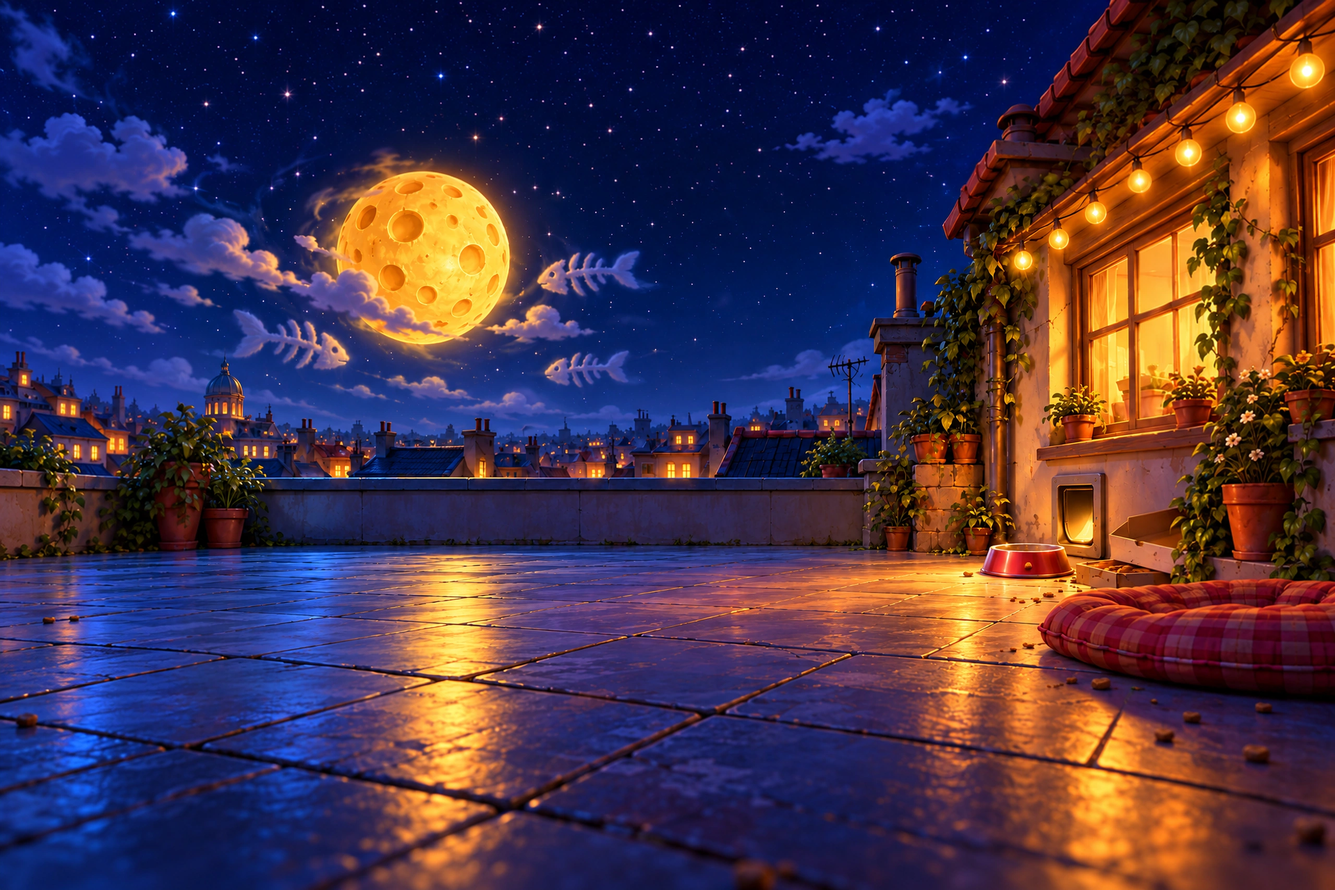
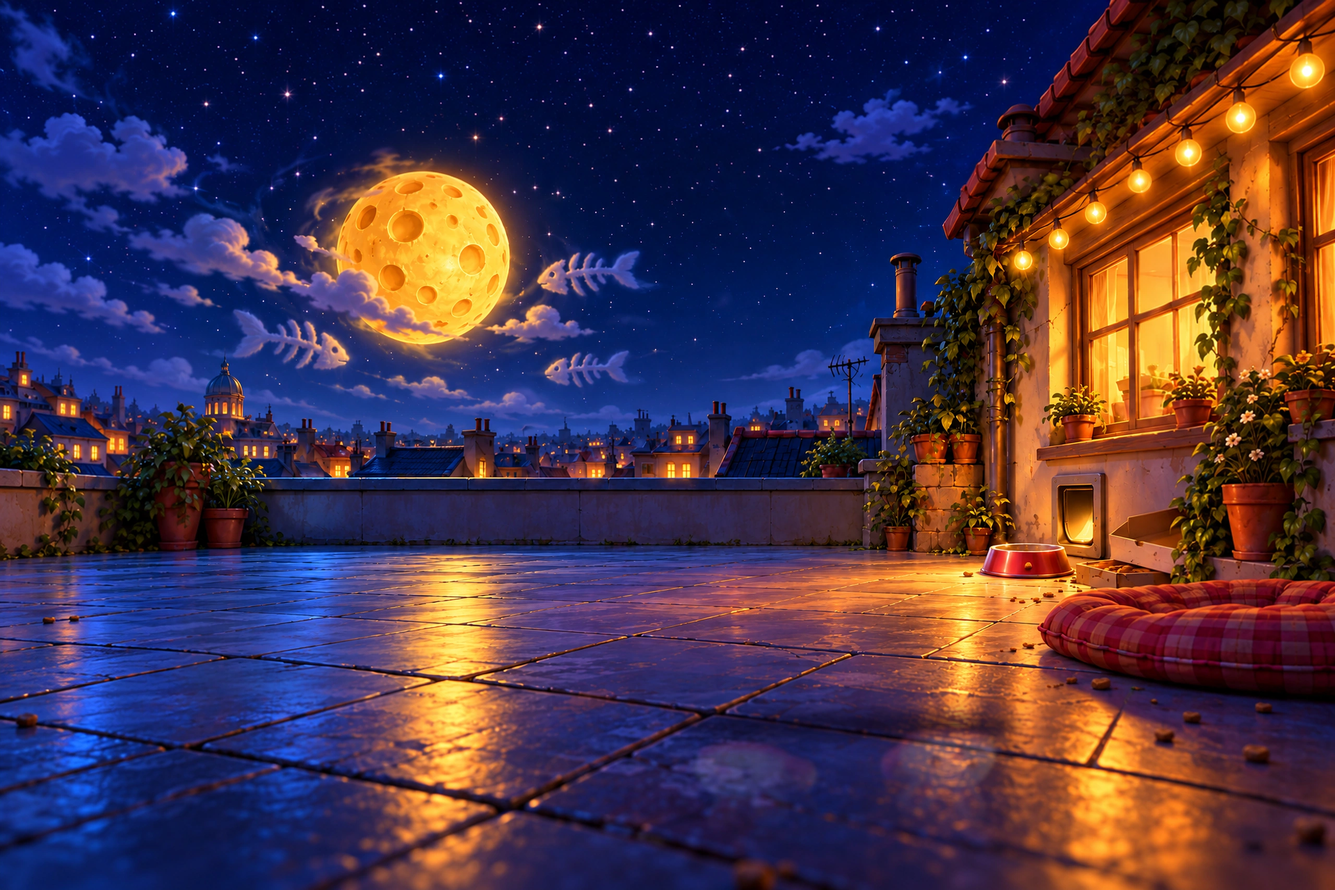
WIP gato no menu: recorte no lugar do viciado, 4 tamanhos (Real-ESRGAN), fundo com sombra

Changed region(s): [[0.5, 0.7762, 0.7812, 0.9004]]

diff --git a/src/client/ui/stadium.ts b/src/client/ui/stadium.ts
@@ -142,6 +142,11 @@ export const RECORTES:Readonly<Record<string,StadiumCutout>>=Object.freeze({
   'clt-cansado':{x:792,y:73,w:635,h:865,files:[[423,'/art/menu/heroi/clt-cansado-423.webp'],[635,'/art/menu/heroi/clt-cansado-635.webp'],
     [847,'/art/menu/heroi/clt-cansado-847.webp'],[1270,'/art/menu/heroi/clt-cansado-1270.webp']],
     fundo:'/art/lite/menu/fundo-clt-cansado.webp',rosto:{x:1077,y:223,w:155,h:140},lugar:{de:'viciado-em-bet',k:1.248,dx:100,dy:33}},
+  // NEW-20261022-ORQ-gato-personagem-completo (the user chose pose 1, the bowl): in the viciado's own box (same height,
+  // middle and sole line, `desce` included), on the rooftop without him; his contact shadow and reflection are in his fundo.
+  'gato-nada-pra-comer':{x:944,y:19,w:812,h:1058,files:[[541,'/art/menu/heroi/gato-nada-pra-comer-541.webp'],[812,'/art/menu/heroi/gato-nada-pra-comer-812.webp'],
+    [1083,'/art/menu/heroi/gato-nada-pra-comer-1083.webp'],[1624,'/art/menu/heroi/gato-nada-pra-comer-1624.webp']],
+    desce:4,fundo:'/art/lite/menu/fundo-gato-nada-pra-comer.webp',rosto:{x:1080,y:100,w:400,h:220}},
 });
 type Placeable=Pick<StadiumCutout,'x'|'y'|'w'|'h'|'desce'>&Partial<Pick<StadiumCutout,'rosto'|'lugar'>>;
 /** How a hero's own picture lands on the stage's (lugar): his face's middle on the other's, `dx` right and `dy` lower. */
